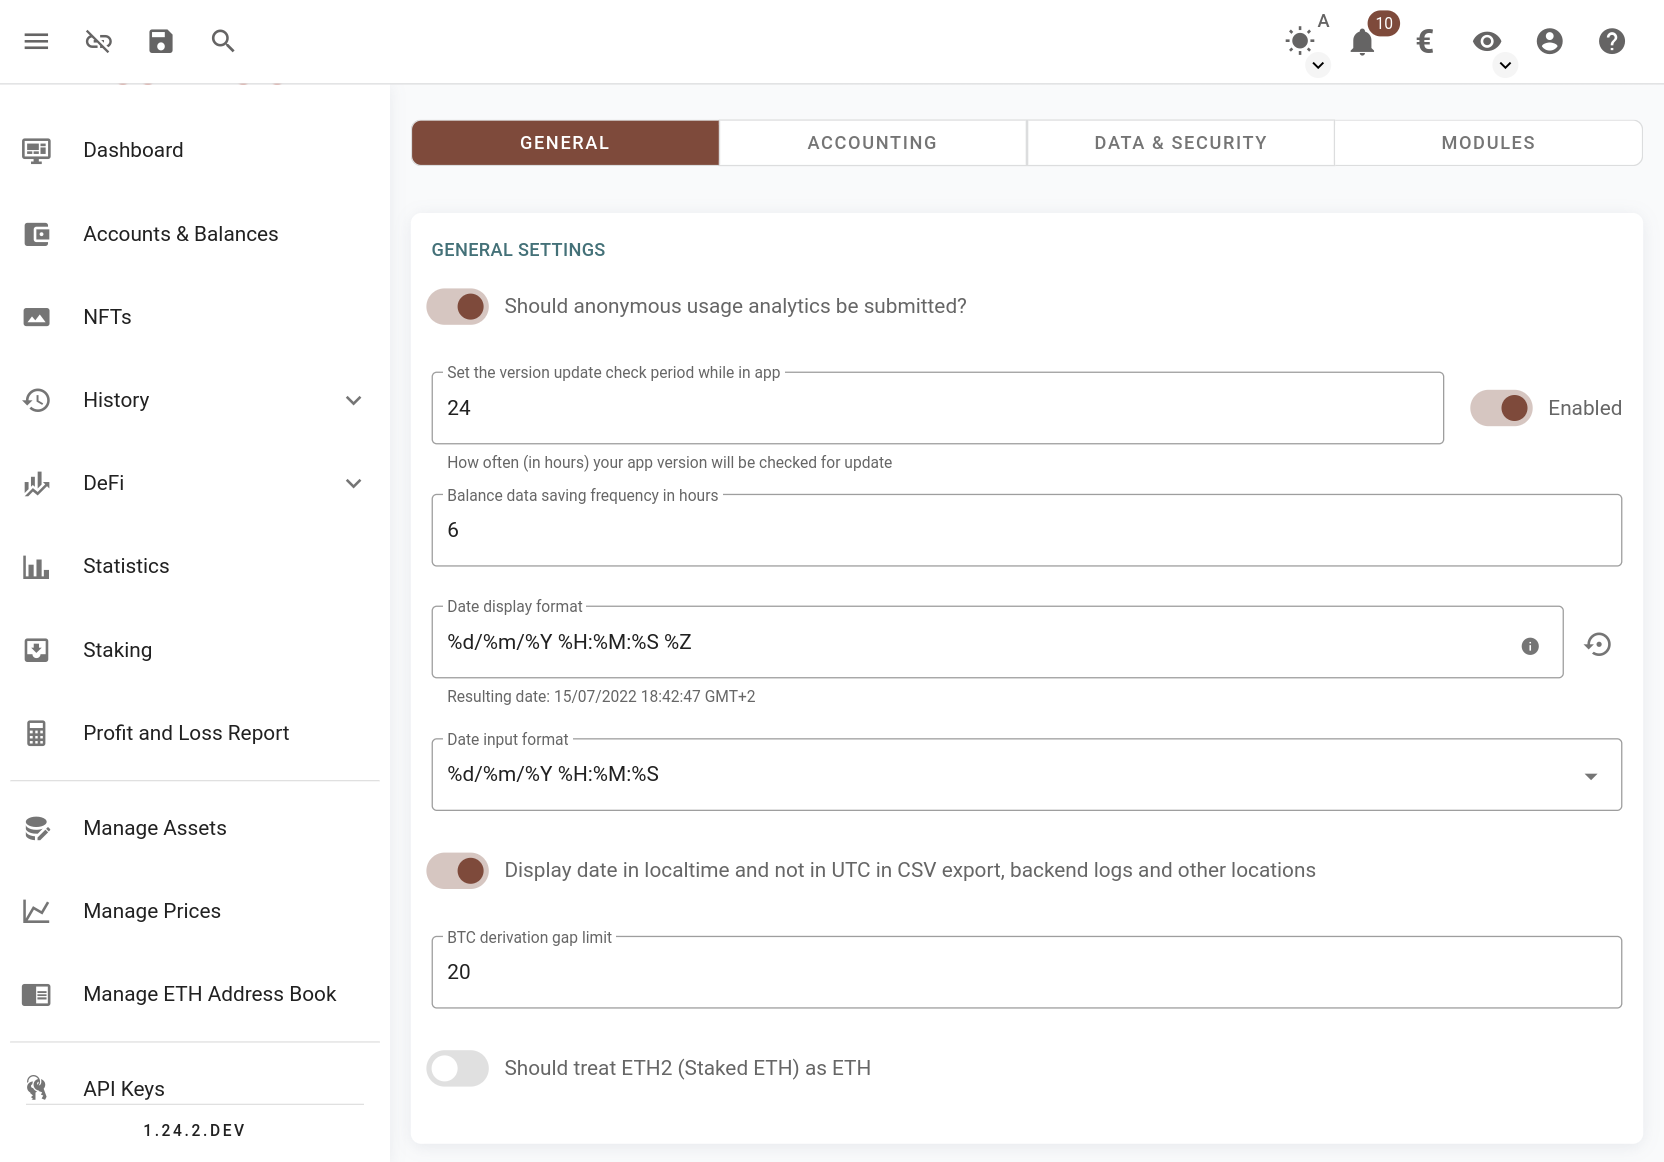
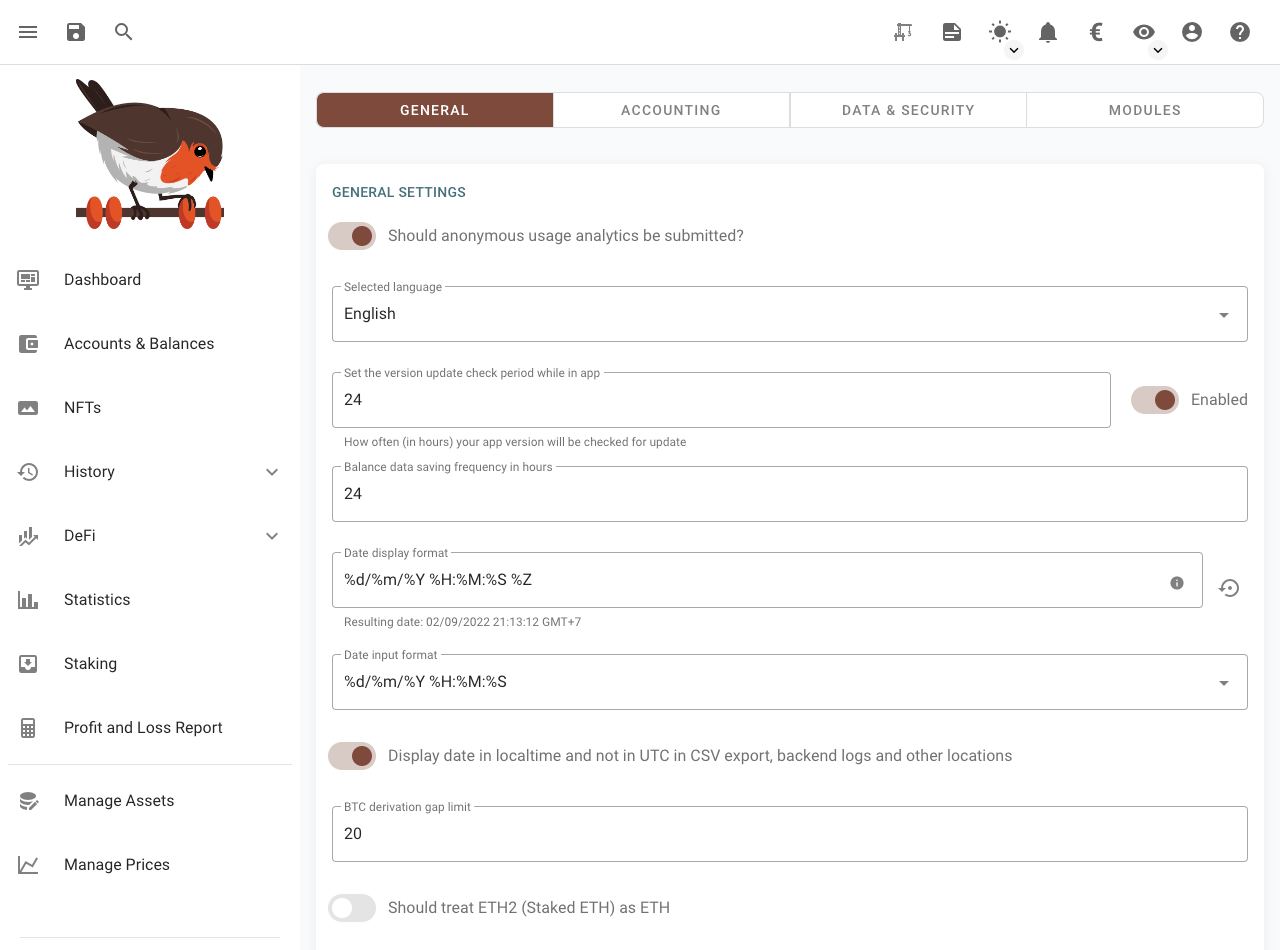
Add guides for i18n
add guides for i18n

diff --git a/docs/contribute.rst b/docs/contribute.rst
@@ -325,6 +325,56 @@ Multiple submodules
 
 The modules system is hierachical and one module may contain multiple submodules. For example uniswap having both v1 and v3 each in their own subdirectories as seen `here <https://github.com/rotki/rotki/tree/develop/rotkehlchen/chain/ethereum/modules/uniswap>`__.
 
+Add a new language or translation
+===================================
+
+Add new language
+----------------
+The translation files are located `here <https://github.com/rotki/rotki/tree/develop/frontend/app/src/locales>`__.
+They are saved with format ``{country_code}.json``, where country code is ``Alpha-2`` code based on `ISO 3166 country codes <https://en.wikipedia.org/wiki/List_of_ISO_3166_country_codes>`__.
+If you want to add a new language, you need to create a new language file with that format, and then `fill it <#add-or-edit-translation>`__.
+
+You also need to update the frontend mapping that is defined at this `enum <https://github.com/rotki/rotki/blob/f57522baa737854e6affcbe57bada2b81c4dee83/frontend/app/src/types/frontend-settings.ts#L112>`__, and these `entries <https://github.com/rotki/rotki/blob/f57522baa737854e6affcbe57bada2b81c4dee83/frontend/app/src/data/supported-language.ts>`__.
+
+Add or edit a translation
+-----------------------
+Rotki does translation using `Vue i18n <https://kazupon.github.io/vue-i18n>`__.
+
+Rotki's main language is ``English``. The language file for it is `here <https://github.com/rotki/rotki/blob/develop/frontend/app/src/locales/en.json>`__.
+In order to fill in the translation for another language, you should pay attention to the following things:
+
+1. The ``JSON`` structure from the ``English`` language file is absolute, meaning you can't change the JSON structure (the keys), because this is how rotki reads which value to use. So for translations of other languages, please follow the same structure as the `English` language JSON file. For example:
+
+.. code-block::
+
+    // en.json
+    "exchange_balances": {
+      "add_exchange": "Add exchange",
+      "click_here": "Click here",
+    }
+
+    // es.json
+    "exchange_balances": {
+      "add_exchange": "Añadir intercambio",
+      "click_here": "Haga clic aquí",
+    }
+
+2. You may notice that there are some words that are wrapped inside curly brackets, for example the word ``length`` in the sentence ``Use total from {length} asset(s) value``.
+This is how rotki inserts a variable inside a sentence. You **must** keep this variable name, when translating to a different language. What you can do though is to reposition the variable inside the sentence. For example:
+
+.. code-block::
+
+    // en.json
+    "total": {
+      "use_calculated_asset": "Use total from {length} asset(s) value: ",
+    }
+
+    // es.json
+    "total": {
+      "use_calculated_asset": "Utilice el valor total de {length} activos: ",
+    }
+
+3. For missing keys from other language files, by default it will use the value of the master file which is ``English``.
 
 Code Testing
 **************

diff --git a/docs/usage_guide.rst b/docs/usage_guide.rst
@@ -151,6 +151,11 @@ By choosing the "General" settings button you can customize some general applica
 General Settings
 ----------------------
 
+Language
+^^^^^^^^^^^^^^^^^^^^^^^^^^^^^
+
+Set the language used on the app. This feature is experimental and may not work as expected for some languages. This is because all static sentences in the app have to be manually translated and that is a long and ongoing process. Therefore, we need your contribution to speed it up. You can contribute to the translation `here <https://rotki.readthedocs.io/en/latest/contribute.html#add-new-language-or-translation>`__.
+
 Anonymous usage analytics
 ^^^^^^^^^^^^^^^^^^^^^^^^^^^^^
 
